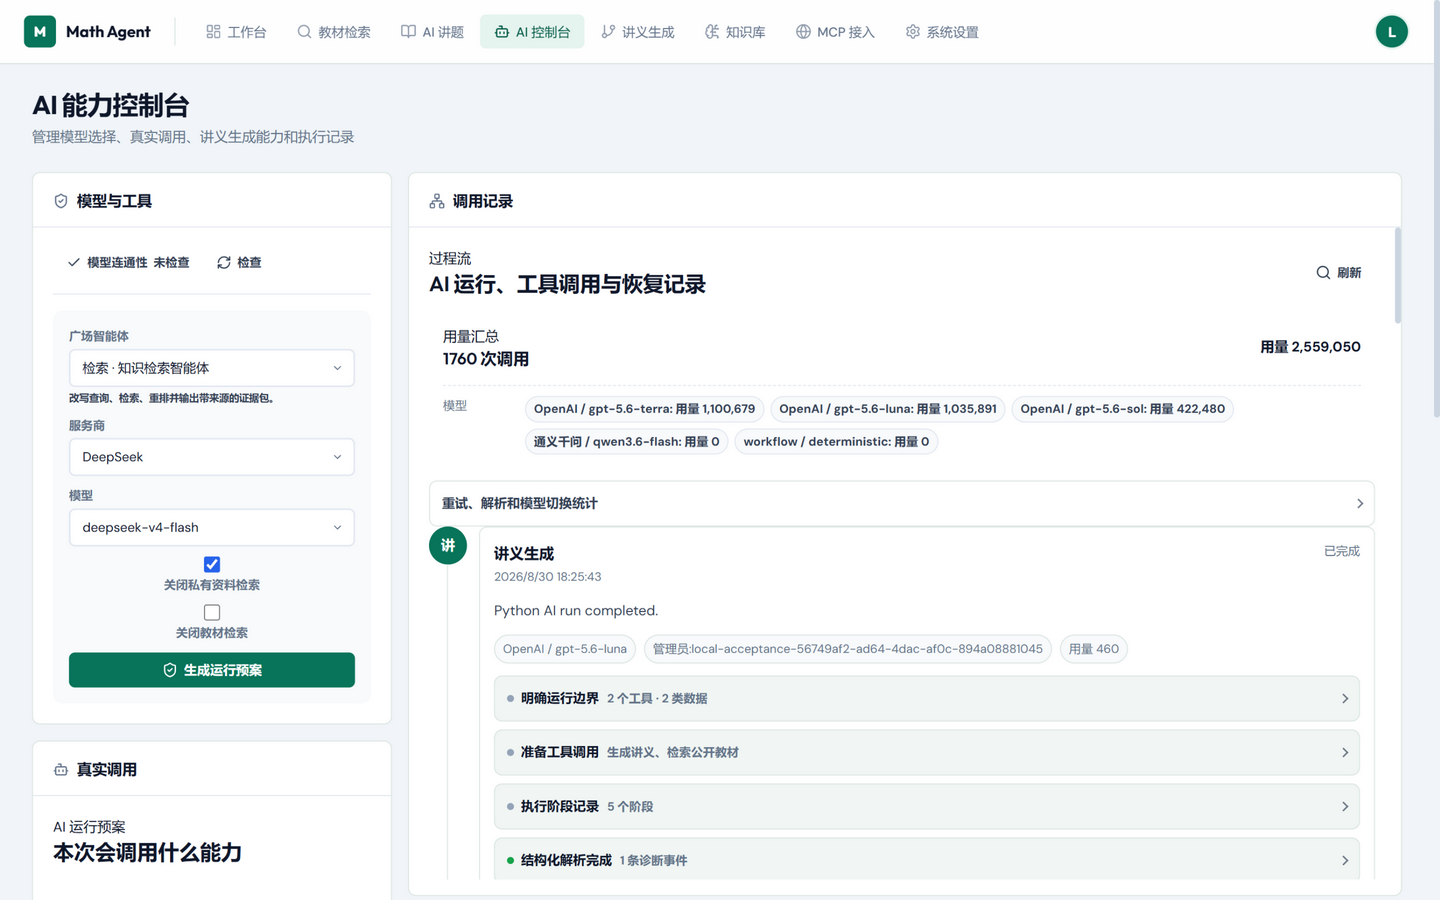
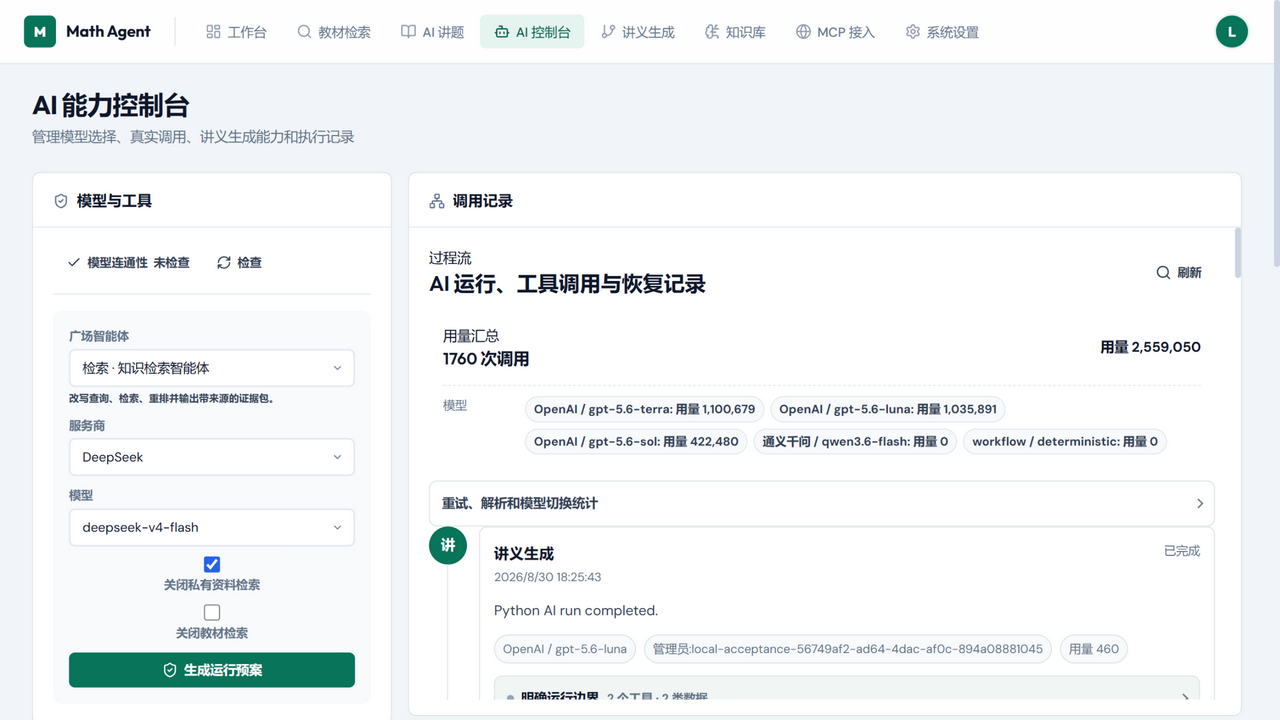
docs: refresh frontend screenshots from current build; pin npm mirror for frontend image build

diff --git a/README.md b/README.md
@@ -79,15 +79,15 @@ flowchart TD
 
 以下截图取自本地真实运行的前端控制台（`http://127.0.0.1:5173`）：
 
-**工作台**——教学概览与教材资源统计（教材 8 册、文本块 3,317、PDF 页 1,067）：
+**工作台**——教学任务入口与教材资源统计（教材 8 册、文本块 3,317、PDF 页 1,067）：
 
 ![工作台](docs/assets/frontend/dashboard.png)
 
-**讲义生成**——教学目标提交与三版本 PDF 生成入口：
+**讲义生成**——讲义母版选择、教学目标提交与三版本 PDF 生成入口：
 
 ![讲义生成](docs/assets/frontend/handout-generation.png)
 
-**知识库**——SVG 力导向知识图谱（142 节点，支持拖拽、缩放与悬停高亮）：
+**知识库**——知识图谱与题库工作台（142 谱节点、146 关系边、201 知识点、6,678 条向量，SVG 力导向图支持拖拽、缩放与悬停高亮）：
 
 ![知识库](docs/assets/frontend/knowledge-base.png)
 
@@ -95,7 +95,7 @@ flowchart TD
 
 ![AI 控制台](docs/assets/frontend/ai-console.png)
 
-**MCP 接入**——按当前登录态生成个人 MCP Key 与标准握手配置：
+**MCP 接入**——按当前登录态生成个人 MCP Key、标准握手配置与工具清单：
 
 ![MCP 接入](docs/assets/frontend/mcp-console.png)
 
